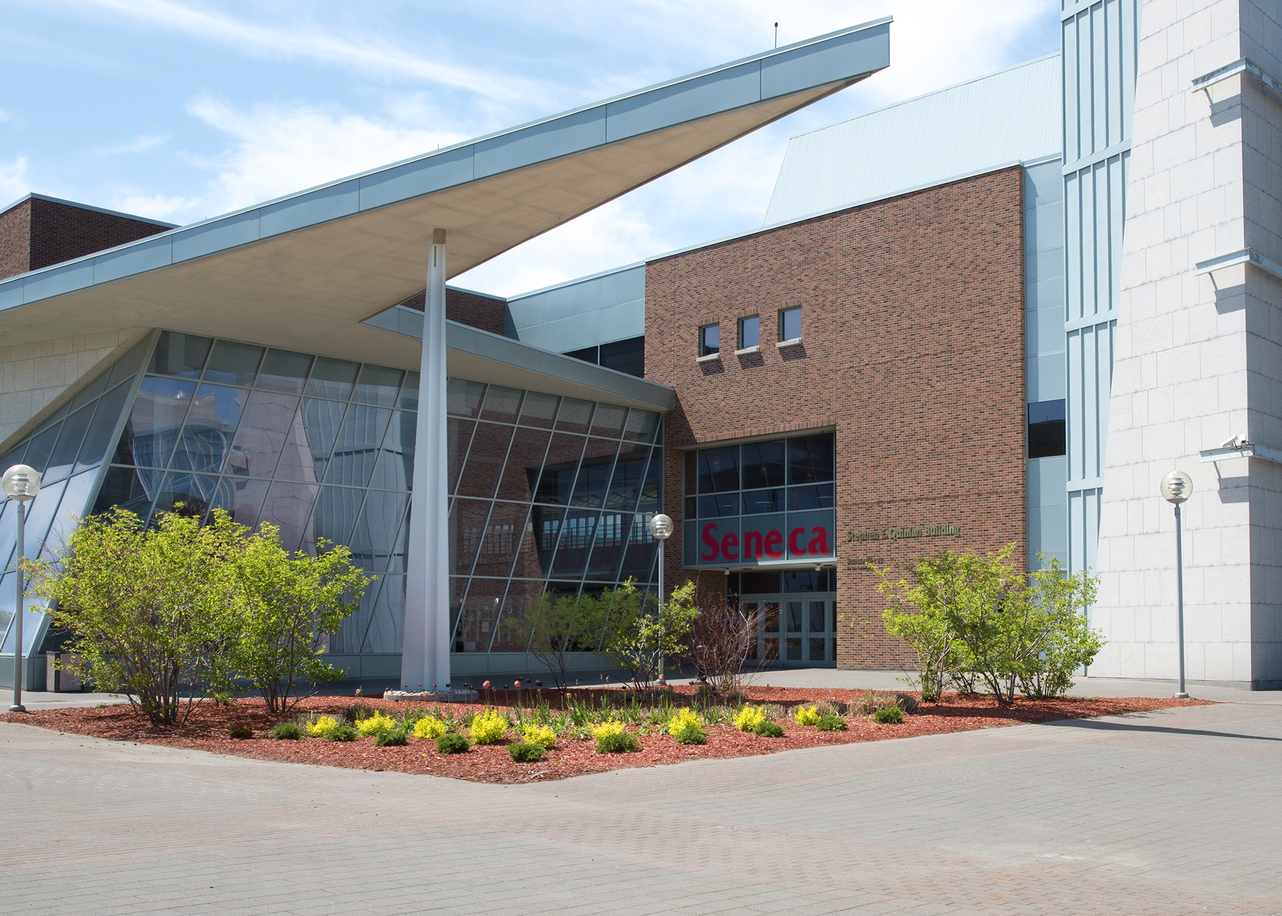
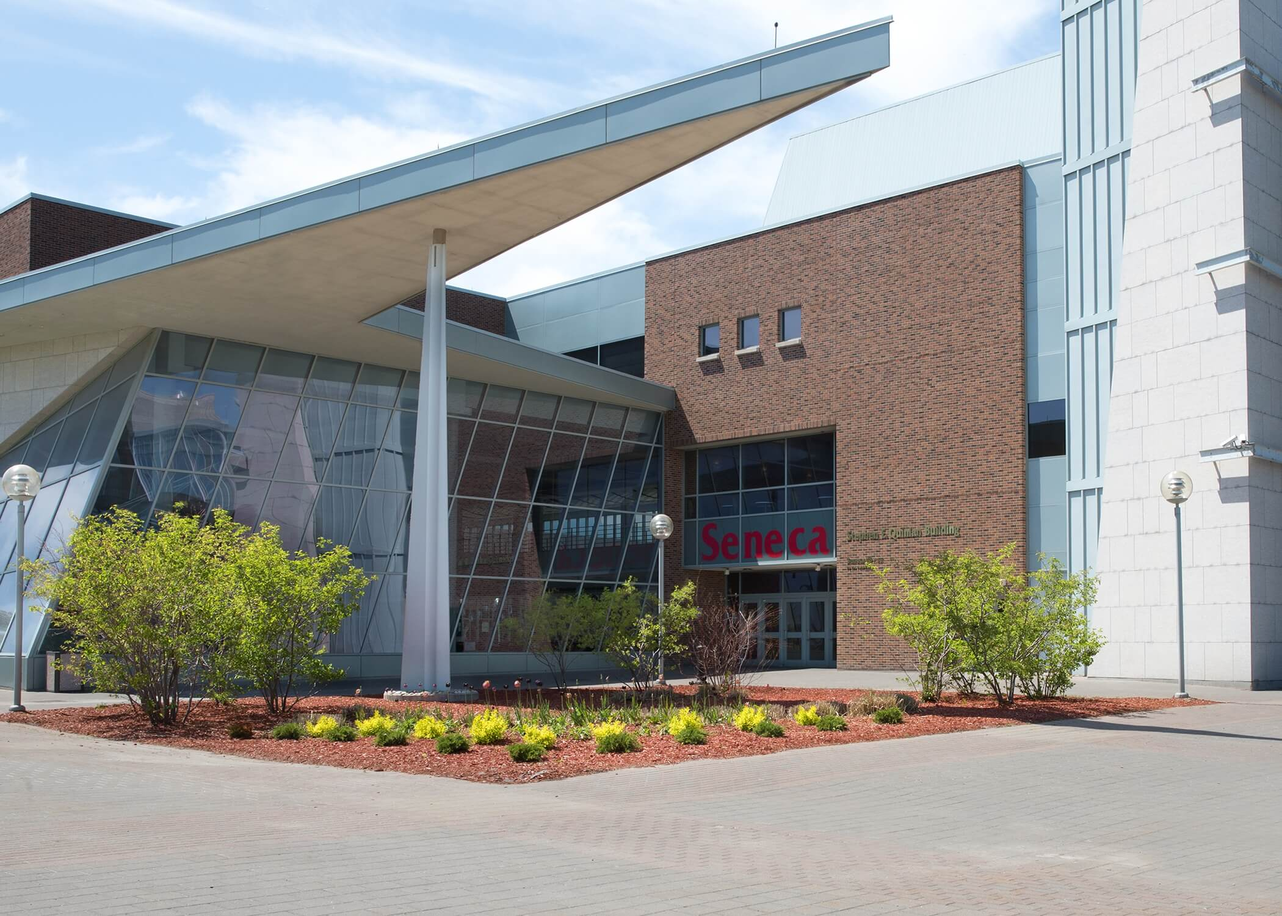
images load faster, exp modified, typos

diff --git a/src/components/Experience.jsx b/src/components/Experience.jsx
@@ -33,7 +33,7 @@ const Experience = () => {
                                                                                 <h6 className="card-subtitle mb-2">Remote</h6>
                                                                                 <h6 className="card-subtitle mb-2 text-muted">05/2020 - 08/2020</h6>
                                                                                 <p className="card-text tasks">
-                                                                                    <b>Technology:</b> C#, SQL, Selenium, Appium, BrowserStack, Azure DevOps, Swagger, Postman
+                                                                                    <b>Technology:</b> C#, SQL, Selenium, Appium, BrowserStack, Swagger, Postman
                                                                                 </p>
                                                                             </div>
                                                                         </div>
@@ -43,7 +43,8 @@ const Experience = () => {
                                                             <div id="morno-tasks" className="accordion-collapse collapse" aria-labelledby="mornoHeading" data-bs-parent="#morno-exp">
                                                                 <div className="accordion-body">
                                                                     <ul className="tasks">
-                                                                        <li>Automated tests mobile application for Android using Selenium(C#), Appium and BrowserStack</li>
+                                                                        <li>Automated tests for an Android mobile application using Selenium(C#), Appium and BrowserStack</li>
+                                                                        <li>Continuously contributed to a large code base, started developing framework for mobile testing automation</li>
                                                                         <li>Used Swagger and Postman to automate regression testing for API services</li>
                                                                         <li>Wrote and verified SQL queries in SQL Management Studio</li>
                                                                         <li>Updated framework’s documentation by including 10+ features developed in the last 2 years</li>

diff --git a/src/components/AboutMe.jsx b/src/components/AboutMe.jsx
@@ -1,4 +1,4 @@
-import me from '../pictures/me_round.jpeg' // relative path to image 
+import me from '../pictures/me_round.jpeg'
 import './styles/AboutMe.css';
 
 
@@ -25,7 +25,7 @@ const AboutMe = () => {
                     <div className="row">
                         <div className="col">
 
-                            <p>I'm intersted in full-stack development, though I prefer back-end (don't tell anyone).</p>
+                            <p>I'm interested in full-stack development, though I prefer back-end (don't tell anyone).</p>
                         </div>
                     </div>
                     <div className="row">

diff --git a/src/components/styles/Experience.css b/src/components/styles/Experience.css
@@ -3,7 +3,7 @@
     background-image: url(../../pictures/nc_sunrise.png);
     background-size:cover;
     -webkit-background-size: cover;
-    -moz-background-size: cover;
+    -moz-background-size: cover;    
     -o-background-size: cover;
   
     height:fit-content;

diff --git a/README.md b/README.md
@@ -16,3 +16,6 @@ https://www.w3schools.com/bootstrap/bootstrap_filters.asp
 TODO: think abt trying to plug in google analytics just for fun (JFF)
 or https://clicky.com/
 or https://get.gaug.es/
+
+
+    NOTES: master is serving the site, get rid of other branches
